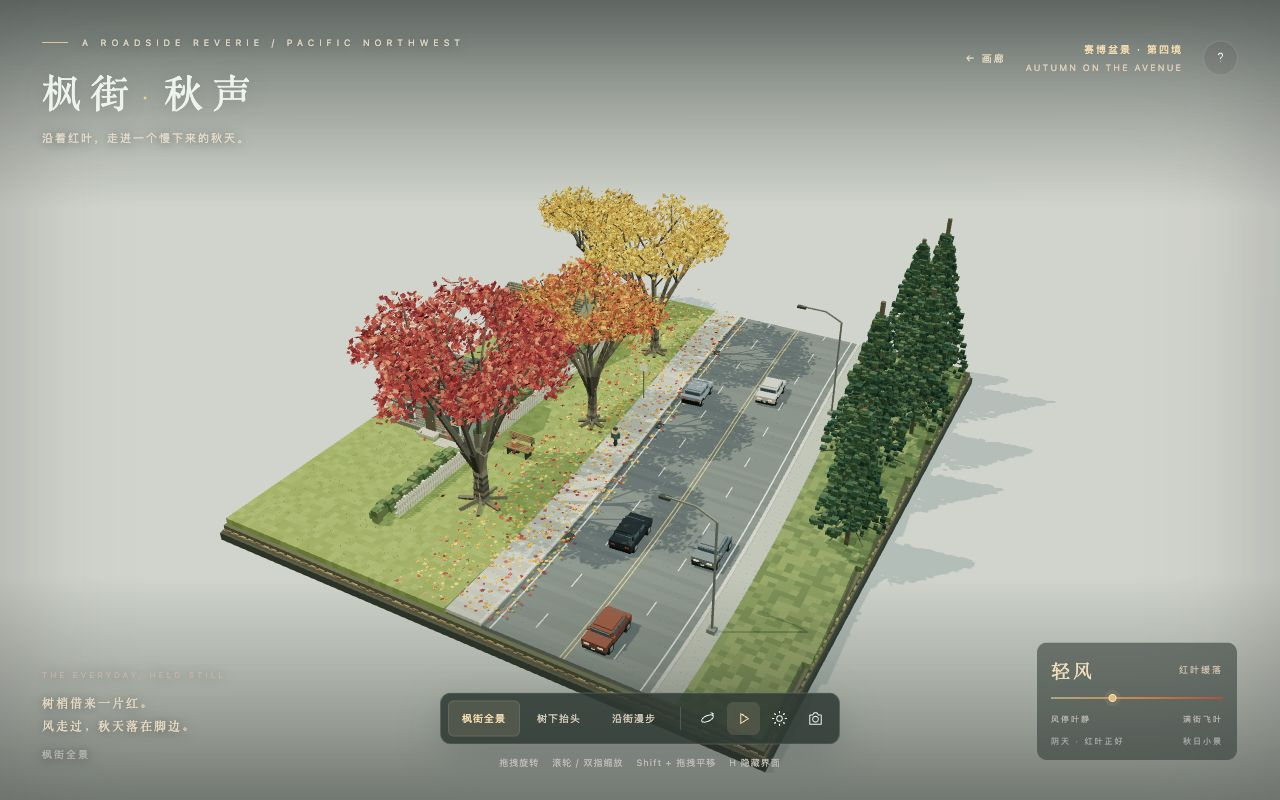
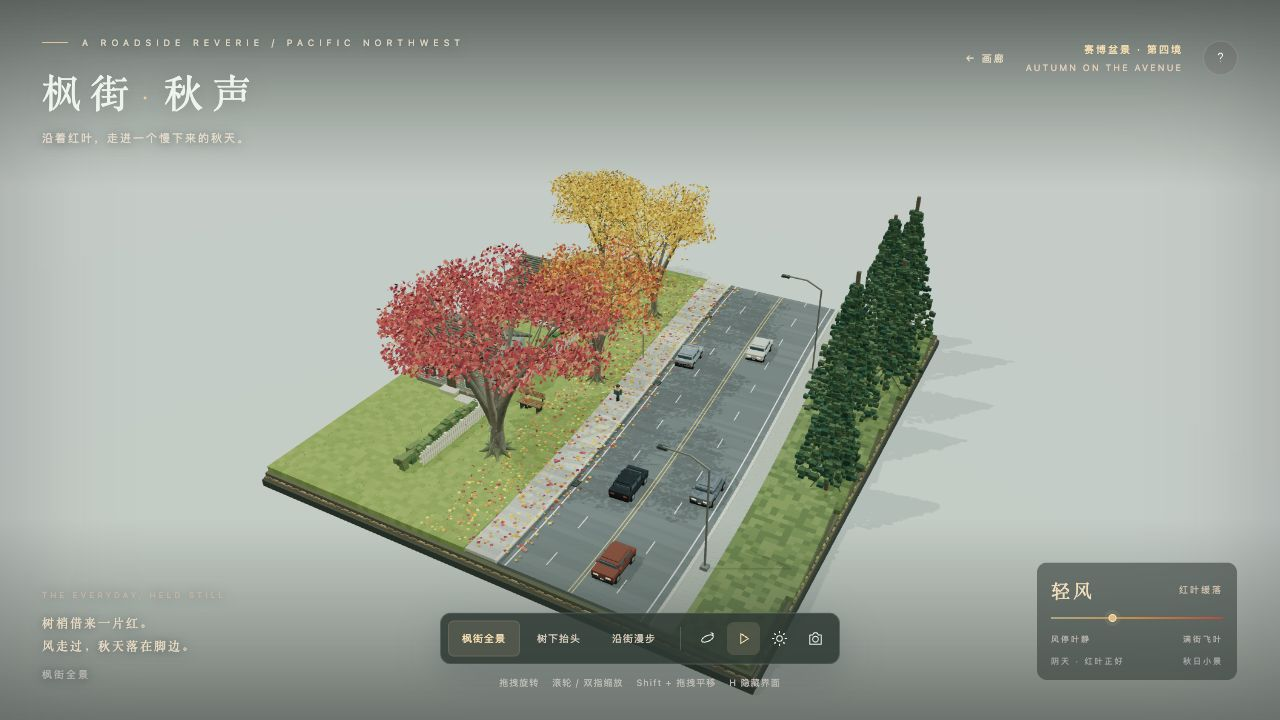
Refine autumn maples and match the reference photo viewpoint

diff --git a/scenes/autumn-avenue/index.html b/scenes/autumn-avenue/index.html
@@ -65,7 +65,7 @@ renderer.setSize(innerWidth,innerHeight);renderer.setPixelRatio(Math.min(deviceP
 const canvas=renderer.domElement;canvas.setAttribute('aria-label','微缩秋日街景：红枫覆盖弯曲人行道，落叶、草坪、常绿树与缓行车辆');
 const camera=new T.PerspectiveCamera(43,innerWidth/innerHeight,.08,1000);
 const hemi=new T.HemisphereLight(0xdce5e3,0x77715b,2.9);scene.add(hemi);
-const sun=new T.DirectionalLight(0xffedcc,2.05);sun.position.set(-22,36,12);sun.castShadow=true;sun.shadow.mapSize.set(2048,2048);Object.assign(sun.shadow.camera,{left:-33,right:33,top:33,bottom:-33,near:.1,far:100});sun.shadow.normalBias=.045;sun.shadow.bias=-.0002;scene.add(sun);
+const sun=new T.DirectionalLight(0xe4ebe7,1.15);sun.position.set(-22,36,12);sun.castShadow=true;sun.shadow.mapSize.set(2048,2048);Object.assign(sun.shadow.camera,{left:-33,right:33,top:33,bottom:-33,near:.1,far:100});sun.shadow.normalBias=.045;sun.shadow.bias=-.0002;scene.add(sun);
 const rim=new T.DirectionalLight(0xd2e3e5,1.5);rim.position.set(24,17,-22);scene.add(rim);
 const stone=new T.MeshStandardMaterial({roughness:.94}),wood=new T.MeshStandardMaterial({roughness:1}),metal=new T.MeshStandardMaterial({roughness:.55,metalness:.4}),glass=new T.MeshStandardMaterial({roughness:.24,metalness:.15}),leafMat=new T.MeshStandardMaterial({roughness:1,side:T.DoubleSide}),warmMat=new T.MeshStandardMaterial({emissive:0xffb355,emissiveIntensity:.5,roughness:.5}),roadMat=new T.MeshStandardMaterial({roughness:.85});
 const box=new T.BoxGeometry(1,1,1),dummy=new T.Object3D();let voxelCount=0;
@@ -101,30 +101,88 @@ const floor=new T.Mesh(new T.PlaneGeometry(3000,3000),new T.MeshStandardMaterial
 const outline=[[-.05,-.52],[.04,-.52],[.055,-.23],[.29,-.28],[.27,-.10],[.54,.04],[.38,.13],[.45,.33],[.25,.28],[.25,.49],[.12,.42],[0,.72],[-.12,.42],[-.25,.49],[-.25,.28],[-.45,.33],[-.38,.13],[-.54,.04],[-.27,-.1],[-.29,-.28],[-.055,-.23]];
 const leafShape=new T.Shape();outline.forEach(([x,y],i)=>i?leafShape.lineTo(x,y):leafShape.moveTo(x,y));leafShape.closePath();
 const leafGeo=new T.ExtrudeGeometry(leafShape,{depth:.045,bevelEnabled:false,steps:1});
-const crimson=[0x962f34,0xab3b3a,0xc34b43,0xce6050,0xb7463e,0xd77559,0x963a3c];
+const crownGeo=new T.ShapeGeometry(leafShape);
+const crimson=[0x9f3640,0xb7484b,0xc65551,0xcd6a5b,0xb44745,0xc77b60,0xa9454b];
 const amber=[0xd6a332,0xe0b440,0xc48d24,0xe6c359,0xbd7d26,0xd49a2c];
 const orange=[0xc27135,0xd18b3b,0xc94f30,0xdd9c42,0xb85733];
 const leafGroups=[];
-function leaves(items,parent=scene){const mesh=new T.InstancedMesh(leafGeo,leafMat,items.length);mesh.castShadow=true;mesh.receiveShadow=true;items.forEach((v,i)=>{dummy.position.set(v.x,v.y,v.z);dummy.rotation.set(v.rx,v.ry,v.rz);dummy.scale.setScalar(v.s);dummy.updateMatrix();mesh.setMatrixAt(i,dummy.matrix);mesh.setColorAt(i,new T.Color(v.c));});mesh.computeBoundingSphere();parent.add(mesh);return mesh;}
-function maple(x,z,h,spread,palette,hero=false){const group=new T.Group();group.position.set(x,.35,z);scene.add(group);const b=new Batch(group),foliage=[],bark=[0x625e50,0x736c5a,0x827966,0x524f44];
- // A broad flared root and several grey trunks reproduce the photo's forked silhouette.
- for(let j=0;j<17;j++){const y=j*.25,w=(hero?.86:.59)*(1-j*.019);b.box(Math.sin(j*.08)*.16,y+.13,0,w,.27,w*.86,pick(bark));}
- for(let k=0;k<7;k++){const a=k*TAU/7+.2;beam(b,[0,.25,0],[Math.cos(a)*(hero?1.75:1.1),.03,Math.sin(a)*(hero?1.75:1.1)],.2,.26,0x6c6751);}
- for(let j=0;j<40;j++){const a=rnd()*TAU,y=rnd()*3.8,r=(hero?.43:.29)*(.98-y*.03);b.box(Math.sin(a)*r,y,Math.cos(a)*r,.055,.25+rnd()*.7,.055,pick([0x42483d,0x97917b,0x777564]),wood);}
- for(let k=0;k<8;k++){const a=k*TAU/8+.27+rnd()*.2,start=[.02,2.2+k*.16,0],end=[Math.cos(a)*spread*.57,h*(.62+rnd()*.15),Math.sin(a)*spread*.57];
-  const middle=[end[0]*.30,4.5+k*.08,end[2]*.3];beam(b,start,middle,hero?.43:.3,hero?.4:.28,pick(bark));beam(b,middle,end,.24,.24,pick(bark));
-  for(let j=0;j<4;j++){const aa=a+(j-1.5)*.38,rad=spread*(.64+rnd()*.37),tip=[Math.cos(aa)*rad,h*(.76+rnd()*.22)-Math.max(0,rad/spread-.8)*1.5,Math.sin(aa)*rad];
-   const join=new T.Vector3(...middle).lerp(new T.Vector3(...end),.60+j*.1);beam(b,join.toArray(),tip,.10,.11,pick(bark));
-   const small=[tip[0]+Math.cos(aa+.4)*.75,tip[1]+.65,tip[2]+Math.sin(aa+.4)*.75];beam(b,tip,small,.047,.054,0x544f42);
-   for(let n=0;n<(hero?150:112);n++){const az=rnd()*TAU,rr=Math.sqrt(rnd()),el=(rnd()-.5)*2,rx=1.3+rnd()*.5;const px=tip[0]+Math.cos(az)*rr*rx,py=tip[1]+el*(1.0-rr*.28),pz=tip[2]+Math.sin(az)*rr*rx;
-    foliage.push({x:px,y:py,z:pz,s:.24+rnd()*.23,rx:-Math.PI/2+(rnd()-.5)*1.15,ry:rnd()*TAU,rz:(rnd()-.5)*1.4,c:pick(palette)});
+function leaves(items,parent=scene,geometry=leafGeo){const mesh=new T.InstancedMesh(geometry,leafMat,items.length);mesh.castShadow=true;mesh.receiveShadow=true;items.forEach((v,i)=>{dummy.position.set(v.x,v.y,v.z);dummy.rotation.set(v.rx,v.ry,v.rz);dummy.scale.setScalar(v.s);dummy.updateMatrix();mesh.setMatrixAt(i,dummy.matrix);mesh.setColorAt(i,new T.Color(v.c));});mesh.computeBoundingSphere();parent.add(mesh);return mesh;}
+// Generated bark stays offline and adds the grey, fissured surface in the reference.
+const barkCanvas=document.createElement('canvas');barkCanvas.width=128;barkCanvas.height=512;
+const barkCtx=barkCanvas.getContext('2d');barkCtx.fillStyle='#b4b2a4';barkCtx.fillRect(0,0,128,512);
+let barkSeed=81357;const barkRandom=()=>{barkSeed=(barkSeed*1664525+1013904223)>>>0;return barkSeed/4294967296;};
+for(let i=0;i<260;i++){const x=Math.floor(barkRandom()*128),y=Math.floor(barkRandom()*512),w=1+Math.floor(barkRandom()*4),h=12+barkRandom()*100;barkCtx.fillStyle=pick(['#85877b','#999b8d','#c2c1b1','#a7a99a']);barkCtx.fillRect(x,y,w,h);}
+for(let i=0;i<35;i++){let x=barkRandom()*128,y=barkRandom()*512;barkCtx.strokeStyle=i%3?'#777e72':'#626b62';barkCtx.lineWidth=i%4===0?2:1;barkCtx.beginPath();barkCtx.moveTo(x,y);for(let k=0;k<6;k++){x+=(barkRandom()-.5)*5;y+=6+barkRandom()*12;barkCtx.lineTo(x,y);}barkCtx.stroke();}
+const barkTexture=new T.CanvasTexture(barkCanvas);barkTexture.colorSpace=T.SRGBColorSpace;barkTexture.magFilter=T.NearestFilter;barkTexture.wrapS=barkTexture.wrapT=T.RepeatWrapping;
+const barkMat=new T.MeshStandardMaterial({map:barkTexture,roughness:1,vertexColors:true});
+class Limbs{
+ constructor(parent){this.parent=parent;this.items=[];}
+ segment(a,b,r,endR,c){this.items.push({a:a.clone(),b:b.clone(),r,endR,c});}
+ curve(a,b,c,startRadius,endRadius,color){
+  const path=new T.QuadraticBezierCurve3(new T.Vector3(...a),new T.Vector3(...b),new T.Vector3(...c));
+  const n=Math.max(4,Math.ceil(path.getLength()/.44));
+  for(let i=0;i<n;i++){const t=i/n,u=(i+1)/n;this.segment(path.getPoint(t),path.getPoint(u),mix(startRadius,endRadius,t),mix(startRadius,endRadius,u),color);}
+ }
+ finish(){
+  const positions=[],normals=[],uvs=[],colors=[];
+  for(const v of this.items){
+   const axis=v.b.clone().sub(v.a),length=axis.length(),color=new T.Color(v.c);
+   dummy.position.copy(v.a).add(v.b).multiplyScalar(.5);dummy.quaternion.setFromUnitVectors(new T.Vector3(0,1,0),axis.clone().normalize());dummy.scale.set(1,1,1);dummy.updateMatrix();
+   const geometry=new T.CylinderGeometry(v.endR,v.r,length,7,1,true).toNonIndexed();
+   const uv=geometry.attributes.uv;
+   for(let i=0;i<uv.count;i++)uv.setXY(i,uv.getX(i)*TAU*v.r/1.3,(uv.getY(i)*length+v.a.y)/3);
+   geometry.applyMatrix4(dummy.matrix);
+   positions.push(...geometry.attributes.position.array);normals.push(...geometry.attributes.normal.array);uvs.push(...uv.array);
+   for(let i=0;i<geometry.attributes.position.count;i++)colors.push(color.r,color.g,color.b);
+   geometry.dispose();
+  }
+  const geometry=new T.BufferGeometry();geometry.setAttribute('position',new T.Float32BufferAttribute(positions,3));geometry.setAttribute('normal',new T.Float32BufferAttribute(normals,3));geometry.setAttribute('uv',new T.Float32BufferAttribute(uvs,2));geometry.setAttribute('color',new T.Float32BufferAttribute(colors,3));geometry.computeBoundingSphere();
+  const mesh=new T.Mesh(geometry,barkMat);mesh.castShadow=true;mesh.receiveShadow=true;this.parent.add(mesh);
+ }
+}
+function maple(x,z,h,spread,palette,hero=false){
+ const group=new T.Group();group.position.set(x,.35,z);scene.add(group);
+ const limbs=new Limbs(group),foliage=[],baseR=hero?.67:.36;
+ const bark=[0xb0aea1,0xc1bcb0,0xaaa99c,0xcac4b7];
+ limbs.curve([0,0,0],[.18,1.8,-.08],[.16,4.2,-.10],baseR,baseR*.56,0xb8b5a8);
+ for(let k=0;k<8;k++){const a=k*TAU/8+.2,length=hero?1.45:1.0;
+  limbs.curve([Math.cos(a)*length,.025,Math.sin(a)*length],[Math.cos(a)*.6,.16,Math.sin(a)*.6],[0,.9,0],.035,baseR*.56,0x9eaa8d);
+ }
+ // Stems diverge at different heights and taper through bent, asymmetric limbs.
+ for(let k=0;k<7;k++){
+  const a=k*TAU/7+.18+rnd()*.26,start=[.08,1.5+k*.32,-.03];
+  const extension=hero&&Math.cos(a)>0?1.32:1;
+  const end=[Math.cos(a)*spread*.66*extension,h*(.68+rnd()*.19),Math.sin(a)*spread*.62];
+  const bend=[Math.cos(a)*spread*.15,h*(.37+rnd()*.06),Math.sin(a)*spread*.16];
+  limbs.curve(start,bend,end,baseR*(.53+rnd()*.13),.06+rnd()*.025,pick(bark));
+  for(let j=0;j<5;j++){
+   const aa=a+(j-2)*.32,rad=spread*(.60+rnd()*.44),ex=hero&&Math.cos(aa)>0?1.32:1;
+   const tip=[Math.cos(aa)*rad*ex,h*(.67+rnd()*.32)-Math.max(0,rad/spread-.8)*1.8,Math.sin(aa)*rad];
+   const join=new T.Vector3(...bend).lerp(new T.Vector3(...end),.42+j*.10);
+   const mid=join.clone().lerp(new T.Vector3(...tip),.53);mid.y+=.22+rnd()*.6;
+   limbs.curve(join.toArray(),mid.toArray(),tip,.058+rnd()*.025,.016,pick(bark));
+   for(let q=0;q<3;q++){
+    const twig=new T.Vector3(...tip).add(new T.Vector3(Math.cos(aa+q-.9)*(.55+rnd()*.55),.12+rnd()*.52,Math.sin(aa+q-.9)*(.55+rnd()*.55)));
+    const twigStart=mid.clone().lerp(new T.Vector3(...tip),.64+q*.12);
+    limbs.curve(twigStart.toArray(),new T.Vector3(...tip).toArray(),twig.toArray(),.025,.008,0x919688);
+   }
+   // Layers of small clusters leave slivers of sky while joining the crown overhead.
+   for(let n=0;n<(hero?210:130);n++){
+    const az=rnd()*TAU,rr=Math.sqrt(rnd()),vertical=(rnd()-.5)*2,rx=hero?1.7:1.5;
+    const px=tip[0]+Math.cos(az)*rr*rx,py=tip[1]+vertical*(1.1-rr*.35),pz=tip[2]+Math.sin(az)*rr*rx;
+    foliage.push({x:px,y:py,z:pz,s:.19+rnd()*.20,rx:-Math.PI/2+(rnd()-.5)*1.45,ry:rnd()*TAU,rz:(rnd()-.5)*1.5,c:pick(palette)});
    }
   }
  }
- b.finish();const crown=new T.Group();group.add(crown);leaves(foliage,crown);leafGroups.push({g:crown,phase:rnd()*TAU,x,z,h,palette});return group;
+ // Inner clusters connect the outer branches without turning the crown into a shell.
+ for(let i=0;i<(hero?680:260);i++){const a=rnd()*TAU,r=Math.sqrt(rnd())*(hero?2.1:1.4);foliage.push({x:Math.cos(a)*r+(hero?.6:0),y:h*.86+(rnd()-.5)*2.0,z:Math.sin(a)*r,s:.2+rnd()*.16,rx:-Math.PI/2+(rnd()-.5)*1.4,ry:rnd()*TAU,rz:rnd()*TAU,c:pick(palette)});}
+ // Small lichen flecks follow the trunk surface instead of forming horizontal bands.
+ const lichen=new Batch(group);
+ for(let i=0;i<(hero?115:35);i++){const a=rnd()*TAU,y=rnd()*2.7,r=mix(baseR,baseR*.64,y/4.2);lichen.box(Math.sin(a)*r,y,Math.cos(a)*r,.018+rnd()*.065,.045+rnd()*.14,.025,pick([0x778278,0x909782,0xa8ad9a]),wood,[0,a,0]);}lichen.finish();
+ limbs.finish();const crown=new T.Group();group.add(crown);leaves(foliage,crown,crownGeo);leafGroups.push({g:crown,phase:rnd()*TAU,x,z,h,palette});return group;
 }
-maple(-5.6,12.6,13.8,5.8,crimson,true);
-maple(-4.15,.2,11.5,4.55,orange);
+maple(-5.6,12.6,14.7,6.6,crimson,true);
+maple(-4.15,.2,11.5,4.65,orange);
 maple(-5.35,-12.4,12.2,4.9,amber);
 maple(-15.1,-19.0,10,3.7,amber);
 // The right-hand evergreen wall balances the brilliant deciduous canopies.
@@ -177,11 +235,11 @@ for(let i=0;i<fallingMax;i++){const tree=leafGroups[i%3];drift.push({x:tree.x+(r
 let wind=.35,paused=matchMedia('(prefers-reduced-motion: reduce)').matches,golden=false,auto=false,time=0,transition=null,viewName='all';
 function setWind(v){wind=v;falling.count=v===0?0:Math.round(15+v*(fallingMax-15));$('wind-label').textContent=v<.1?'无风':v<.55?'轻风':'秋风起';$('weather-desc').textContent=v<.1?'叶静枝闲':v<.55?'红叶缓落':'满街飞叶';}
 $('wind').oninput=e=>setWind(Number(e.target.value));setWind(wind);
-function setLight(){golden=!golden;hemi.intensity=golden?2.1:2.9;sun.intensity=golden?3.4:2.05;sun.color.set(golden?0xffc47e:0xffedcc);sun.position.set(golden?-30:-22,golden?17:36,12);rim.intensity=golden?.9:1.5;scene.background.set(golden?0xa99c82:0xadb6b1);scene.fog.color.copy(scene.background);floor.material.color.set(golden?0x999981:0xaab3ab);$('light').classList.toggle('active',golden);$('light').setAttribute('aria-pressed',String(golden));$('light').innerHTML=golden?icons.moon:icons.sun;$('dusk-label').textContent=golden?'雨后 · 夕照入林':'阴天 · 红叶正好';}
+function setLight(){golden=!golden;hemi.intensity=golden?2.1:2.9;sun.intensity=golden?3.4:1.15;sun.color.set(golden?0xffc47e:0xe4ebe7);sun.position.set(golden?-30:-22,golden?17:36,12);rim.intensity=golden?.9:1.5;scene.background.set(golden?0xa99c82:0xadb6b1);scene.fog.color.copy(scene.background);floor.material.color.set(golden?0x999981:0xaab3ab);$('light').classList.toggle('active',golden);$('light').setAttribute('aria-pressed',String(golden));$('light').innerHTML=golden?icons.moon:icons.sun;$('dusk-label').textContent=golden?'雨后 · 夕照入林':'阴天 · 红叶正好';}
 const target=new T.Vector3(0,3.5,0);let radius=76,theta=.50,phi=1.03;
-const presets={all:{fov:43,r:76,t:.50,p:1.03,target:new T.Vector3(0,3.5,0)},canopy:{fov:65,r:24,t:.05,p:1.80,target:new T.Vector3(-2.8,7.0,-1.8)},street:{fov:54,r:29,t:.10,p:1.50,target:new T.Vector3(-1.2,2.7,-7)}};
+const presets={all:{fov:43,r:76,t:.50,p:1.03,target:new T.Vector3(0,3.5,0)},canopy:{fov:65,r:22,t:.015,p:1.84,target:new T.Vector3(-2.8,8.0,-2.0)},street:{fov:54,r:29,t:.10,p:1.50,target:new T.Vector3(-1.2,2.7,-7)}};
 function setView(name){viewName=name;transition={start:performance.now(),from:{fov:camera.fov,r:radius,t:theta,p:phi,target:target.clone()},to:presets[name]};document.querySelectorAll('[data-view]').forEach(b=>{b.classList.toggle('active',b.dataset.view===name);b.setAttribute('aria-pressed',String(b.dataset.view===name));});$('view-label').textContent={all:'枫街全景',canopy:'树下抬头',street:'沿街漫步'}[name];}
-function updateCamera(){const r=radius*(viewName==='all'?Math.max(1,1.12/camera.aspect):Math.max(1,.60/camera.aspect));scene.fog.near=r+65;scene.fog.far=r+200;camera.position.set(target.x+r*Math.sin(phi)*Math.sin(theta),Math.max(.7,target.y+r*Math.cos(phi)),target.z+r*Math.sin(phi)*Math.cos(theta));camera.lookAt(target);}
+function updateCamera(){const r=radius*(viewName==='all'?Math.max(1,1.12/camera.aspect):Math.max(1,.60/camera.aspect));scene.fog.near=r+65;scene.fog.far=r+200;camera.position.set(target.x+r*Math.sin(phi)*Math.sin(theta),Math.max(1.95,target.y+(viewName==='all'?r:radius)*Math.cos(phi)),target.z+r*Math.sin(phi)*Math.cos(theta));camera.lookAt(target);}
 const pointers=new Map();let lastX=0,lastY=0,pinch=0,interaction=0;
 canvas.addEventListener('pointerdown',e=>{canvas.setPointerCapture(e.pointerId);pointers.set(e.pointerId,{x:e.clientX,y:e.clientY});lastX=e.clientX;lastY=e.clientY;transition=null;interaction=performance.now();});
 canvas.addEventListener('pointermove',e=>{if(!pointers.has(e.pointerId))return;pointers.set(e.pointerId,{x:e.clientX,y:e.clientY});if(pointers.size===2){const a=[...pointers.values()],d=Math.hypot(a[0].x-a[1].x,a[0].y-a[1].y);if(pinch)radius=T.MathUtils.clamp(radius*pinch/d,5,115);pinch=d;}else{const dx=e.clientX-lastX,dy=e.clientY-lastY;if(e.shiftKey||e.buttons===2){target.addScaledVector(new T.Vector3().setFromMatrixColumn(camera.matrix,0),-dx*radius*.001);target.addScaledVector(new T.Vector3().setFromMatrixColumn(camera.matrix,1),dy*radius*.001);}else{theta-=dx*.005;phi=T.MathUtils.clamp(phi+dy*.004,.20,1.95);}}lastX=e.clientX;lastY=e.clientY;interaction=performance.now();});
@@ -199,7 +257,7 @@ function animate(now){requestAnimationFrame(animate);const dt=Math.min(.06,(now-
  for(const tree of leafGroups){tree.g.rotation.z=Math.sin(time*.65+tree.phase)*wind*.009;tree.g.rotation.x=Math.cos(time*.43+tree.phase)*wind*.006;}
  for(let i=0;i<falling.count;i++){const f=drift[i],progress=(f.phase+time*f.v*(wind*.9+.025))%1;const x=f.x+Math.sin(progress*TAU+f.spin)*(.4+wind)+progress*wind*2,z=f.z+Math.sin(progress*4+f.spin)*.7,y=.43+(1-progress)*(f.h-1);dummy.position.set(x,y,z);dummy.scale.setScalar(f.s);dummy.rotation.set(-Math.PI/2+Math.sin(progress*9+f.spin),f.spin+progress*7,progress*9+f.spin);dummy.updateMatrix();falling.setMatrixAt(i,dummy.matrix);}falling.instanceMatrix.needsUpdate=true;
  for(const c of cars){const z=((c.z+time*c.speed+24)%48+48)%48-24;c.g.position.set(roadX(z)+c.lane,.27,z);c.g.rotation.y=roadHeading(z)+(c.speed<0?Math.PI:0);c.g.visible=Math.abs(z)<20.65;}
- updateCamera();renderer.render(scene,camera);frames++;if(now-fpsStart>2000){canvas.dataset.renderStats=JSON.stringify({voxels:voxelCount,mapleTrees:leafGroups.length,fallingLeaves:falling.count,fps:Math.round(frames*1000/(now-fpsStart)),view:viewName,golden,paused,wind});frames=0;fpsStart=now;}}
+ updateCamera();canvas.dataset.cameraView=transition?'moving':viewName;renderer.render(scene,camera);frames++;if(now-fpsStart>2000){canvas.dataset.renderStats=JSON.stringify({voxels:voxelCount,mapleTrees:leafGroups.length,fallingLeaves:falling.count,fps:Math.round(frames*1000/(now-fpsStart)),view:viewName,golden,paused,wind});frames=0;fpsStart=now;}}
 $('loading').classList.add('done');setTimeout(()=>$('loading').remove(),700);requestAnimationFrame(animate);
 })();
 

diff --git a/scenes/autumn-avenue/scene.js b/scenes/autumn-avenue/scene.js
@@ -8,7 +8,7 @@ renderer.setSize(innerWidth,innerHeight);renderer.setPixelRatio(Math.min(deviceP
 const canvas=renderer.domElement;canvas.setAttribute('aria-label','微缩秋日街景：红枫覆盖弯曲人行道，落叶、草坪、常绿树与缓行车辆');
 const camera=new T.PerspectiveCamera(43,innerWidth/innerHeight,.08,1000);
 const hemi=new T.HemisphereLight(0xdce5e3,0x77715b,2.9);scene.add(hemi);
-const sun=new T.DirectionalLight(0xffedcc,2.05);sun.position.set(-22,36,12);sun.castShadow=true;sun.shadow.mapSize.set(2048,2048);Object.assign(sun.shadow.camera,{left:-33,right:33,top:33,bottom:-33,near:.1,far:100});sun.shadow.normalBias=.045;sun.shadow.bias=-.0002;scene.add(sun);
+const sun=new T.DirectionalLight(0xe4ebe7,1.15);sun.position.set(-22,36,12);sun.castShadow=true;sun.shadow.mapSize.set(2048,2048);Object.assign(sun.shadow.camera,{left:-33,right:33,top:33,bottom:-33,near:.1,far:100});sun.shadow.normalBias=.045;sun.shadow.bias=-.0002;scene.add(sun);
 const rim=new T.DirectionalLight(0xd2e3e5,1.5);rim.position.set(24,17,-22);scene.add(rim);
 const stone=new T.MeshStandardMaterial({roughness:.94}),wood=new T.MeshStandardMaterial({roughness:1}),metal=new T.MeshStandardMaterial({roughness:.55,metalness:.4}),glass=new T.MeshStandardMaterial({roughness:.24,metalness:.15}),leafMat=new T.MeshStandardMaterial({roughness:1,side:T.DoubleSide}),warmMat=new T.MeshStandardMaterial({emissive:0xffb355,emissiveIntensity:.5,roughness:.5}),roadMat=new T.MeshStandardMaterial({roughness:.85});
 const box=new T.BoxGeometry(1,1,1),dummy=new T.Object3D();let voxelCount=0;
@@ -44,30 +44,88 @@ const floor=new T.Mesh(new T.PlaneGeometry(3000,3000),new T.MeshStandardMaterial
 const outline=[[-.05,-.52],[.04,-.52],[.055,-.23],[.29,-.28],[.27,-.10],[.54,.04],[.38,.13],[.45,.33],[.25,.28],[.25,.49],[.12,.42],[0,.72],[-.12,.42],[-.25,.49],[-.25,.28],[-.45,.33],[-.38,.13],[-.54,.04],[-.27,-.1],[-.29,-.28],[-.055,-.23]];
 const leafShape=new T.Shape();outline.forEach(([x,y],i)=>i?leafShape.lineTo(x,y):leafShape.moveTo(x,y));leafShape.closePath();
 const leafGeo=new T.ExtrudeGeometry(leafShape,{depth:.045,bevelEnabled:false,steps:1});
-const crimson=[0x962f34,0xab3b3a,0xc34b43,0xce6050,0xb7463e,0xd77559,0x963a3c];
+const crownGeo=new T.ShapeGeometry(leafShape);
+const crimson=[0x9f3640,0xb7484b,0xc65551,0xcd6a5b,0xb44745,0xc77b60,0xa9454b];
 const amber=[0xd6a332,0xe0b440,0xc48d24,0xe6c359,0xbd7d26,0xd49a2c];
 const orange=[0xc27135,0xd18b3b,0xc94f30,0xdd9c42,0xb85733];
 const leafGroups=[];
-function leaves(items,parent=scene){const mesh=new T.InstancedMesh(leafGeo,leafMat,items.length);mesh.castShadow=true;mesh.receiveShadow=true;items.forEach((v,i)=>{dummy.position.set(v.x,v.y,v.z);dummy.rotation.set(v.rx,v.ry,v.rz);dummy.scale.setScalar(v.s);dummy.updateMatrix();mesh.setMatrixAt(i,dummy.matrix);mesh.setColorAt(i,new T.Color(v.c));});mesh.computeBoundingSphere();parent.add(mesh);return mesh;}
-function maple(x,z,h,spread,palette,hero=false){const group=new T.Group();group.position.set(x,.35,z);scene.add(group);const b=new Batch(group),foliage=[],bark=[0x625e50,0x736c5a,0x827966,0x524f44];
- // A broad flared root and several grey trunks reproduce the photo's forked silhouette.
- for(let j=0;j<17;j++){const y=j*.25,w=(hero?.86:.59)*(1-j*.019);b.box(Math.sin(j*.08)*.16,y+.13,0,w,.27,w*.86,pick(bark));}
- for(let k=0;k<7;k++){const a=k*TAU/7+.2;beam(b,[0,.25,0],[Math.cos(a)*(hero?1.75:1.1),.03,Math.sin(a)*(hero?1.75:1.1)],.2,.26,0x6c6751);}
- for(let j=0;j<40;j++){const a=rnd()*TAU,y=rnd()*3.8,r=(hero?.43:.29)*(.98-y*.03);b.box(Math.sin(a)*r,y,Math.cos(a)*r,.055,.25+rnd()*.7,.055,pick([0x42483d,0x97917b,0x777564]),wood);}
- for(let k=0;k<8;k++){const a=k*TAU/8+.27+rnd()*.2,start=[.02,2.2+k*.16,0],end=[Math.cos(a)*spread*.57,h*(.62+rnd()*.15),Math.sin(a)*spread*.57];
-  const middle=[end[0]*.30,4.5+k*.08,end[2]*.3];beam(b,start,middle,hero?.43:.3,hero?.4:.28,pick(bark));beam(b,middle,end,.24,.24,pick(bark));
-  for(let j=0;j<4;j++){const aa=a+(j-1.5)*.38,rad=spread*(.64+rnd()*.37),tip=[Math.cos(aa)*rad,h*(.76+rnd()*.22)-Math.max(0,rad/spread-.8)*1.5,Math.sin(aa)*rad];
-   const join=new T.Vector3(...middle).lerp(new T.Vector3(...end),.60+j*.1);beam(b,join.toArray(),tip,.10,.11,pick(bark));
-   const small=[tip[0]+Math.cos(aa+.4)*.75,tip[1]+.65,tip[2]+Math.sin(aa+.4)*.75];beam(b,tip,small,.047,.054,0x544f42);
-   for(let n=0;n<(hero?150:112);n++){const az=rnd()*TAU,rr=Math.sqrt(rnd()),el=(rnd()-.5)*2,rx=1.3+rnd()*.5;const px=tip[0]+Math.cos(az)*rr*rx,py=tip[1]+el*(1.0-rr*.28),pz=tip[2]+Math.sin(az)*rr*rx;
-    foliage.push({x:px,y:py,z:pz,s:.24+rnd()*.23,rx:-Math.PI/2+(rnd()-.5)*1.15,ry:rnd()*TAU,rz:(rnd()-.5)*1.4,c:pick(palette)});
+function leaves(items,parent=scene,geometry=leafGeo){const mesh=new T.InstancedMesh(geometry,leafMat,items.length);mesh.castShadow=true;mesh.receiveShadow=true;items.forEach((v,i)=>{dummy.position.set(v.x,v.y,v.z);dummy.rotation.set(v.rx,v.ry,v.rz);dummy.scale.setScalar(v.s);dummy.updateMatrix();mesh.setMatrixAt(i,dummy.matrix);mesh.setColorAt(i,new T.Color(v.c));});mesh.computeBoundingSphere();parent.add(mesh);return mesh;}
+// Generated bark stays offline and adds the grey, fissured surface in the reference.
+const barkCanvas=document.createElement('canvas');barkCanvas.width=128;barkCanvas.height=512;
+const barkCtx=barkCanvas.getContext('2d');barkCtx.fillStyle='#b4b2a4';barkCtx.fillRect(0,0,128,512);
+let barkSeed=81357;const barkRandom=()=>{barkSeed=(barkSeed*1664525+1013904223)>>>0;return barkSeed/4294967296;};
+for(let i=0;i<260;i++){const x=Math.floor(barkRandom()*128),y=Math.floor(barkRandom()*512),w=1+Math.floor(barkRandom()*4),h=12+barkRandom()*100;barkCtx.fillStyle=pick(['#85877b','#999b8d','#c2c1b1','#a7a99a']);barkCtx.fillRect(x,y,w,h);}
+for(let i=0;i<35;i++){let x=barkRandom()*128,y=barkRandom()*512;barkCtx.strokeStyle=i%3?'#777e72':'#626b62';barkCtx.lineWidth=i%4===0?2:1;barkCtx.beginPath();barkCtx.moveTo(x,y);for(let k=0;k<6;k++){x+=(barkRandom()-.5)*5;y+=6+barkRandom()*12;barkCtx.lineTo(x,y);}barkCtx.stroke();}
+const barkTexture=new T.CanvasTexture(barkCanvas);barkTexture.colorSpace=T.SRGBColorSpace;barkTexture.magFilter=T.NearestFilter;barkTexture.wrapS=barkTexture.wrapT=T.RepeatWrapping;
+const barkMat=new T.MeshStandardMaterial({map:barkTexture,roughness:1,vertexColors:true});
+class Limbs{
+ constructor(parent){this.parent=parent;this.items=[];}
+ segment(a,b,r,endR,c){this.items.push({a:a.clone(),b:b.clone(),r,endR,c});}
+ curve(a,b,c,startRadius,endRadius,color){
+  const path=new T.QuadraticBezierCurve3(new T.Vector3(...a),new T.Vector3(...b),new T.Vector3(...c));
+  const n=Math.max(4,Math.ceil(path.getLength()/.44));
+  for(let i=0;i<n;i++){const t=i/n,u=(i+1)/n;this.segment(path.getPoint(t),path.getPoint(u),mix(startRadius,endRadius,t),mix(startRadius,endRadius,u),color);}
+ }
+ finish(){
+  const positions=[],normals=[],uvs=[],colors=[];
+  for(const v of this.items){
+   const axis=v.b.clone().sub(v.a),length=axis.length(),color=new T.Color(v.c);
+   dummy.position.copy(v.a).add(v.b).multiplyScalar(.5);dummy.quaternion.setFromUnitVectors(new T.Vector3(0,1,0),axis.clone().normalize());dummy.scale.set(1,1,1);dummy.updateMatrix();
+   const geometry=new T.CylinderGeometry(v.endR,v.r,length,7,1,true).toNonIndexed();
+   const uv=geometry.attributes.uv;
+   for(let i=0;i<uv.count;i++)uv.setXY(i,uv.getX(i)*TAU*v.r/1.3,(uv.getY(i)*length+v.a.y)/3);
+   geometry.applyMatrix4(dummy.matrix);
+   positions.push(...geometry.attributes.position.array);normals.push(...geometry.attributes.normal.array);uvs.push(...uv.array);
+   for(let i=0;i<geometry.attributes.position.count;i++)colors.push(color.r,color.g,color.b);
+   geometry.dispose();
+  }
+  const geometry=new T.BufferGeometry();geometry.setAttribute('position',new T.Float32BufferAttribute(positions,3));geometry.setAttribute('normal',new T.Float32BufferAttribute(normals,3));geometry.setAttribute('uv',new T.Float32BufferAttribute(uvs,2));geometry.setAttribute('color',new T.Float32BufferAttribute(colors,3));geometry.computeBoundingSphere();
+  const mesh=new T.Mesh(geometry,barkMat);mesh.castShadow=true;mesh.receiveShadow=true;this.parent.add(mesh);
+ }
+}
+function maple(x,z,h,spread,palette,hero=false){
+ const group=new T.Group();group.position.set(x,.35,z);scene.add(group);
+ const limbs=new Limbs(group),foliage=[],baseR=hero?.67:.36;
+ const bark=[0xb0aea1,0xc1bcb0,0xaaa99c,0xcac4b7];
+ limbs.curve([0,0,0],[.18,1.8,-.08],[.16,4.2,-.10],baseR,baseR*.56,0xb8b5a8);
+ for(let k=0;k<8;k++){const a=k*TAU/8+.2,length=hero?1.45:1.0;
+  limbs.curve([Math.cos(a)*length,.025,Math.sin(a)*length],[Math.cos(a)*.6,.16,Math.sin(a)*.6],[0,.9,0],.035,baseR*.56,0x9eaa8d);
+ }
+ // Stems diverge at different heights and taper through bent, asymmetric limbs.
+ for(let k=0;k<7;k++){
+  const a=k*TAU/7+.18+rnd()*.26,start=[.08,1.5+k*.32,-.03];
+  const extension=hero&&Math.cos(a)>0?1.32:1;
+  const end=[Math.cos(a)*spread*.66*extension,h*(.68+rnd()*.19),Math.sin(a)*spread*.62];
+  const bend=[Math.cos(a)*spread*.15,h*(.37+rnd()*.06),Math.sin(a)*spread*.16];
+  limbs.curve(start,bend,end,baseR*(.53+rnd()*.13),.06+rnd()*.025,pick(bark));
+  for(let j=0;j<5;j++){
+   const aa=a+(j-2)*.32,rad=spread*(.60+rnd()*.44),ex=hero&&Math.cos(aa)>0?1.32:1;
+   const tip=[Math.cos(aa)*rad*ex,h*(.67+rnd()*.32)-Math.max(0,rad/spread-.8)*1.8,Math.sin(aa)*rad];
+   const join=new T.Vector3(...bend).lerp(new T.Vector3(...end),.42+j*.10);
+   const mid=join.clone().lerp(new T.Vector3(...tip),.53);mid.y+=.22+rnd()*.6;
+   limbs.curve(join.toArray(),mid.toArray(),tip,.058+rnd()*.025,.016,pick(bark));
+   for(let q=0;q<3;q++){
+    const twig=new T.Vector3(...tip).add(new T.Vector3(Math.cos(aa+q-.9)*(.55+rnd()*.55),.12+rnd()*.52,Math.sin(aa+q-.9)*(.55+rnd()*.55)));
+    const twigStart=mid.clone().lerp(new T.Vector3(...tip),.64+q*.12);
+    limbs.curve(twigStart.toArray(),new T.Vector3(...tip).toArray(),twig.toArray(),.025,.008,0x919688);
+   }
+   // Layers of small clusters leave slivers of sky while joining the crown overhead.
+   for(let n=0;n<(hero?210:130);n++){
+    const az=rnd()*TAU,rr=Math.sqrt(rnd()),vertical=(rnd()-.5)*2,rx=hero?1.7:1.5;
+    const px=tip[0]+Math.cos(az)*rr*rx,py=tip[1]+vertical*(1.1-rr*.35),pz=tip[2]+Math.sin(az)*rr*rx;
+    foliage.push({x:px,y:py,z:pz,s:.19+rnd()*.20,rx:-Math.PI/2+(rnd()-.5)*1.45,ry:rnd()*TAU,rz:(rnd()-.5)*1.5,c:pick(palette)});
    }
   }
  }
- b.finish();const crown=new T.Group();group.add(crown);leaves(foliage,crown);leafGroups.push({g:crown,phase:rnd()*TAU,x,z,h,palette});return group;
+ // Inner clusters connect the outer branches without turning the crown into a shell.
+ for(let i=0;i<(hero?680:260);i++){const a=rnd()*TAU,r=Math.sqrt(rnd())*(hero?2.1:1.4);foliage.push({x:Math.cos(a)*r+(hero?.6:0),y:h*.86+(rnd()-.5)*2.0,z:Math.sin(a)*r,s:.2+rnd()*.16,rx:-Math.PI/2+(rnd()-.5)*1.4,ry:rnd()*TAU,rz:rnd()*TAU,c:pick(palette)});}
+ // Small lichen flecks follow the trunk surface instead of forming horizontal bands.
+ const lichen=new Batch(group);
+ for(let i=0;i<(hero?115:35);i++){const a=rnd()*TAU,y=rnd()*2.7,r=mix(baseR,baseR*.64,y/4.2);lichen.box(Math.sin(a)*r,y,Math.cos(a)*r,.018+rnd()*.065,.045+rnd()*.14,.025,pick([0x778278,0x909782,0xa8ad9a]),wood,[0,a,0]);}lichen.finish();
+ limbs.finish();const crown=new T.Group();group.add(crown);leaves(foliage,crown,crownGeo);leafGroups.push({g:crown,phase:rnd()*TAU,x,z,h,palette});return group;
 }
-maple(-5.6,12.6,13.8,5.8,crimson,true);
-maple(-4.15,.2,11.5,4.55,orange);
+maple(-5.6,12.6,14.7,6.6,crimson,true);
+maple(-4.15,.2,11.5,4.65,orange);
 maple(-5.35,-12.4,12.2,4.9,amber);
 maple(-15.1,-19.0,10,3.7,amber);
 // The right-hand evergreen wall balances the brilliant deciduous canopies.
@@ -120,11 +178,11 @@ for(let i=0;i<fallingMax;i++){const tree=leafGroups[i%3];drift.push({x:tree.x+(r
 let wind=.35,paused=matchMedia('(prefers-reduced-motion: reduce)').matches,golden=false,auto=false,time=0,transition=null,viewName='all';
 function setWind(v){wind=v;falling.count=v===0?0:Math.round(15+v*(fallingMax-15));$('wind-label').textContent=v<.1?'无风':v<.55?'轻风':'秋风起';$('weather-desc').textContent=v<.1?'叶静枝闲':v<.55?'红叶缓落':'满街飞叶';}
 $('wind').oninput=e=>setWind(Number(e.target.value));setWind(wind);
-function setLight(){golden=!golden;hemi.intensity=golden?2.1:2.9;sun.intensity=golden?3.4:2.05;sun.color.set(golden?0xffc47e:0xffedcc);sun.position.set(golden?-30:-22,golden?17:36,12);rim.intensity=golden?.9:1.5;scene.background.set(golden?0xa99c82:0xadb6b1);scene.fog.color.copy(scene.background);floor.material.color.set(golden?0x999981:0xaab3ab);$('light').classList.toggle('active',golden);$('light').setAttribute('aria-pressed',String(golden));$('light').innerHTML=golden?icons.moon:icons.sun;$('dusk-label').textContent=golden?'雨后 · 夕照入林':'阴天 · 红叶正好';}
+function setLight(){golden=!golden;hemi.intensity=golden?2.1:2.9;sun.intensity=golden?3.4:1.15;sun.color.set(golden?0xffc47e:0xe4ebe7);sun.position.set(golden?-30:-22,golden?17:36,12);rim.intensity=golden?.9:1.5;scene.background.set(golden?0xa99c82:0xadb6b1);scene.fog.color.copy(scene.background);floor.material.color.set(golden?0x999981:0xaab3ab);$('light').classList.toggle('active',golden);$('light').setAttribute('aria-pressed',String(golden));$('light').innerHTML=golden?icons.moon:icons.sun;$('dusk-label').textContent=golden?'雨后 · 夕照入林':'阴天 · 红叶正好';}
 const target=new T.Vector3(0,3.5,0);let radius=76,theta=.50,phi=1.03;
-const presets={all:{fov:43,r:76,t:.50,p:1.03,target:new T.Vector3(0,3.5,0)},canopy:{fov:65,r:24,t:.05,p:1.80,target:new T.Vector3(-2.8,7.0,-1.8)},street:{fov:54,r:29,t:.10,p:1.50,target:new T.Vector3(-1.2,2.7,-7)}};
+const presets={all:{fov:43,r:76,t:.50,p:1.03,target:new T.Vector3(0,3.5,0)},canopy:{fov:65,r:22,t:.015,p:1.84,target:new T.Vector3(-2.8,8.0,-2.0)},street:{fov:54,r:29,t:.10,p:1.50,target:new T.Vector3(-1.2,2.7,-7)}};
 function setView(name){viewName=name;transition={start:performance.now(),from:{fov:camera.fov,r:radius,t:theta,p:phi,target:target.clone()},to:presets[name]};document.querySelectorAll('[data-view]').forEach(b=>{b.classList.toggle('active',b.dataset.view===name);b.setAttribute('aria-pressed',String(b.dataset.view===name));});$('view-label').textContent={all:'枫街全景',canopy:'树下抬头',street:'沿街漫步'}[name];}
-function updateCamera(){const r=radius*(viewName==='all'?Math.max(1,1.12/camera.aspect):Math.max(1,.60/camera.aspect));scene.fog.near=r+65;scene.fog.far=r+200;camera.position.set(target.x+r*Math.sin(phi)*Math.sin(theta),Math.max(.7,target.y+r*Math.cos(phi)),target.z+r*Math.sin(phi)*Math.cos(theta));camera.lookAt(target);}
+function updateCamera(){const r=radius*(viewName==='all'?Math.max(1,1.12/camera.aspect):Math.max(1,.60/camera.aspect));scene.fog.near=r+65;scene.fog.far=r+200;camera.position.set(target.x+r*Math.sin(phi)*Math.sin(theta),Math.max(1.95,target.y+(viewName==='all'?r:radius)*Math.cos(phi)),target.z+r*Math.sin(phi)*Math.cos(theta));camera.lookAt(target);}
 const pointers=new Map();let lastX=0,lastY=0,pinch=0,interaction=0;
 canvas.addEventListener('pointerdown',e=>{canvas.setPointerCapture(e.pointerId);pointers.set(e.pointerId,{x:e.clientX,y:e.clientY});lastX=e.clientX;lastY=e.clientY;transition=null;interaction=performance.now();});
 canvas.addEventListener('pointermove',e=>{if(!pointers.has(e.pointerId))return;pointers.set(e.pointerId,{x:e.clientX,y:e.clientY});if(pointers.size===2){const a=[...pointers.values()],d=Math.hypot(a[0].x-a[1].x,a[0].y-a[1].y);if(pinch)radius=T.MathUtils.clamp(radius*pinch/d,5,115);pinch=d;}else{const dx=e.clientX-lastX,dy=e.clientY-lastY;if(e.shiftKey||e.buttons===2){target.addScaledVector(new T.Vector3().setFromMatrixColumn(camera.matrix,0),-dx*radius*.001);target.addScaledVector(new T.Vector3().setFromMatrixColumn(camera.matrix,1),dy*radius*.001);}else{theta-=dx*.005;phi=T.MathUtils.clamp(phi+dy*.004,.20,1.95);}}lastX=e.clientX;lastY=e.clientY;interaction=performance.now();});
@@ -142,6 +200,6 @@ function animate(now){requestAnimationFrame(animate);const dt=Math.min(.06,(now-
  for(const tree of leafGroups){tree.g.rotation.z=Math.sin(time*.65+tree.phase)*wind*.009;tree.g.rotation.x=Math.cos(time*.43+tree.phase)*wind*.006;}
  for(let i=0;i<falling.count;i++){const f=drift[i],progress=(f.phase+time*f.v*(wind*.9+.025))%1;const x=f.x+Math.sin(progress*TAU+f.spin)*(.4+wind)+progress*wind*2,z=f.z+Math.sin(progress*4+f.spin)*.7,y=.43+(1-progress)*(f.h-1);dummy.position.set(x,y,z);dummy.scale.setScalar(f.s);dummy.rotation.set(-Math.PI/2+Math.sin(progress*9+f.spin),f.spin+progress*7,progress*9+f.spin);dummy.updateMatrix();falling.setMatrixAt(i,dummy.matrix);}falling.instanceMatrix.needsUpdate=true;
  for(const c of cars){const z=((c.z+time*c.speed+24)%48+48)%48-24;c.g.position.set(roadX(z)+c.lane,.27,z);c.g.rotation.y=roadHeading(z)+(c.speed<0?Math.PI:0);c.g.visible=Math.abs(z)<20.65;}
- updateCamera();renderer.render(scene,camera);frames++;if(now-fpsStart>2000){canvas.dataset.renderStats=JSON.stringify({voxels:voxelCount,mapleTrees:leafGroups.length,fallingLeaves:falling.count,fps:Math.round(frames*1000/(now-fpsStart)),view:viewName,golden,paused,wind});frames=0;fpsStart=now;}}
+ updateCamera();canvas.dataset.cameraView=transition?'moving':viewName;renderer.render(scene,camera);frames++;if(now-fpsStart>2000){canvas.dataset.renderStats=JSON.stringify({voxels:voxelCount,mapleTrees:leafGroups.length,fallingLeaves:falling.count,fps:Math.round(frames*1000/(now-fpsStart)),view:viewName,golden,paused,wind});frames=0;fpsStart=now;}}
 $('loading').classList.add('done');setTimeout(()=>$('loading').remove(),700);requestAnimationFrame(animate);
 })();

diff --git a/README.md b/README.md
@@ -47,7 +47,7 @@ python3 -m http.server 8080 --bind 127.0.0.1
 - **龙吟浮樱**：四个视角、晨光 / 月夜、飘落樱花、锦鲤、瀑布、仙鹤与缓缓游动的巨龙。
 - **赤沙镜湖**：三个视角、夕阳滑杆、静水 / 微风、实时倒影、帆船与飞鸟。画面时刻是艺术化的光线控制，并非天文模拟。
 - **雪满江南**：三个视角、雪势滑杆、薄暮 / 雪夜、屋顶积雪、红伞行人、灯火与实时水面倒影。
-- **枫街秋声**：由太平洋西北秋日街景照片启发，提供全景、树下仰望、沿街漫步三个镜头，秋风滑杆、阴天 / 雨后夕照、五裂枫叶、双向车流。它是艺术化微缩场景，并非测绘复原；照片与其定位元数据不包含在仓库中。
+- **枫街秋声**：由太平洋西北秋日街景照片启发，提供全景、树下仰望、沿街漫步三个镜头，秋风滑杆、阴天 / 雨后夕照、灰褐树皮与弯曲分叉、铺展到步道上方的五裂枫叶、双向车流。树下镜头在手机上也保持站立高度。[查看树下视角](docs/autumn-canopy.jpg)。它是艺术化微缩场景，并非测绘复原；照片与其定位元数据不包含在仓库中。
 
 ## 编辑与构建
 
